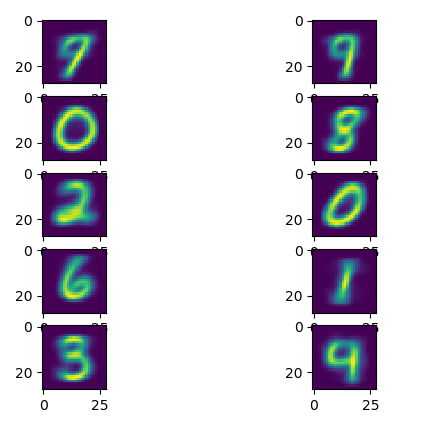
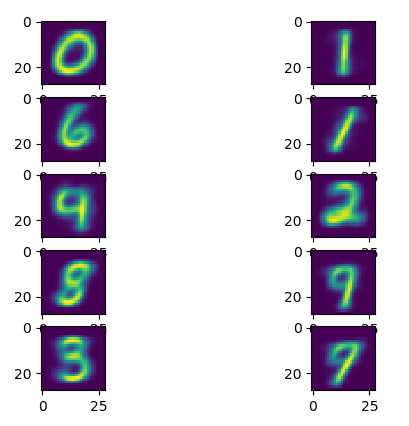
fixed bug in k means

diff --git a/hw/hw3/hw3_q6.py b/hw/hw3/hw3_q6.py
@@ -22,11 +22,6 @@ X_test = X_test / 255.0
 n = X_train.shape[0]
 d = X_train.shape[1] # 28 x 28 = 784
 
-#convert training labels to one hot
-# i.e. encode an i as [0, 0, ..., 0, 1, 0, ... 0] where only the ith entry is nonzero
-Y_train = np.zeros((X_train.shape[0], 10))
-for i,digit in enumerate(labels_train):
-        Y_train[i, digit] = 1
 # =====================================================================================================================================
 
 def objective_function(X, partitions, MU):
@@ -36,22 +31,24 @@ def objective_function(X, partitions, MU):
         MU is a matrix where each row is one of the k means
     '''
     cost = 0
-    for i, part in enumerate(partitions):
-        mu = np.expand_dims(MU[i, :], axis=0)
-        for x in partitions[part]:
-            cost += np.linalg.norm(X[x, :] - mu) ** 2
-        #temp1 = X[partitions[part], :]
-        #temp2 = temp1 - mu
-        #temp3 = np.square(np.linalg.norm(temp2, axis=1))
-        #cost += np.sum(temp3)
+    for part in partitions:
+        mu = np.expand_dims(MU[part, :], axis=0)
+        for j in partitions[part]:
+            temp1 = mu - X[j, :]
+            temp2 = np.linalg.norm(temp1) ** 2
+            cost += temp2
+        #cost += np.sum(np.square(np.linalg.norm(mu - X[partitions[part]], axis=1)))
     return cost
+
 
 def find_partitions(X, MU):
     n = X.shape[0]
     partitions = {}
     for i in range(n):
-        x = X[i, :]
-        part = np.argmin(np.linalg.norm(MU - x, axis=1))
+        x = np.expand_dims(X[i, :], axis=0)
+        temp1 = MU - x
+        temp2 = np.linalg.norm(temp1, axis=1)
+        part = np.argmin(temp2)
         if part in partitions:
             partitions[part].append(i)
         else:
@@ -71,13 +68,15 @@ def k_means(X, k):
 
     prev_MU = np.zeros((k,d))
     delta = 1e-3
-    obj_delta = 10
+    obj_delta = 100
 
     objective_values = []
     itr = 0
 
+    # stop when the MUs stop moving or the objective value stops changing
     while np.amax(np.abs(MU - prev_MU)) > delta and (len(objective_values) < 2 or abs(objective_values[-1] - objective_values[-2]) > obj_delta):
         itr += 1
+        prev_MU = np.copy(MU)
         #print("iteration number: ", itr)
 
         # find partitions
@@ -90,22 +89,24 @@ def k_means(X, k):
 
             # else just leave the current MU as is
 
-        objective_values.append(objective_function(X, partitions, MU))
+    #    objective_values.append(objective_function(X=X, partitions=partitions, MU=MU))
+
     #    print(objective_values[-1])
 
     #plt.figure(1)
     #plt.plot(objective_values)
     #plt.xlabel("iteration number")
     #plt.ylabel("objective value")
+    #plt.title('Problem 6a (k = 10)')
     #plt.show()
 
 
-   # plt.figure(2)
+    #plt.figure(2)
     #for i in range(k):
-   #     plt.subplot(5,2,i+1)
-   #     plt.imshow(np.reshape(MU[i, :], (28, 28)))
+    #    plt.subplot(5,2,i+1)
+    #    plt.imshow(np.reshape(MU[i, :], (28, 28)))
 
-   # plt.show()
+    #plt.show()
 
     return MU, partitions
 
@@ -119,7 +120,7 @@ all_train_errors = []
 all_test_errors = []
 k_vals = [2,5
     ,10,20,40,80,160] #,640,1280]
-for k in k_vals:
+for i, k in enumerate(k_vals):
     print("Running at k = ", k)
     MU_k, partitions_k = k_means(X_train, k)
     train_error = 1/n * objective_function(X_train, partitions=partitions_k, MU=MU_k)
@@ -131,9 +132,9 @@ for k in k_vals:
     all_test_errors.append(test_error)
 
 
-plt.figure(3)
-plt.plot(k_vals, all_train_errors)
-plt.plot(k_vals, all_test_errors)
-plt.legend(['Train', 'Test'])
-plt.show()
+    plt.figure(3)
+    plt.plot(k_vals[:i+1], all_train_errors)
+    plt.plot(k_vals[:i+1], all_test_errors)
+    plt.legend(['Train', 'Test'])
+    plt.show()
 
